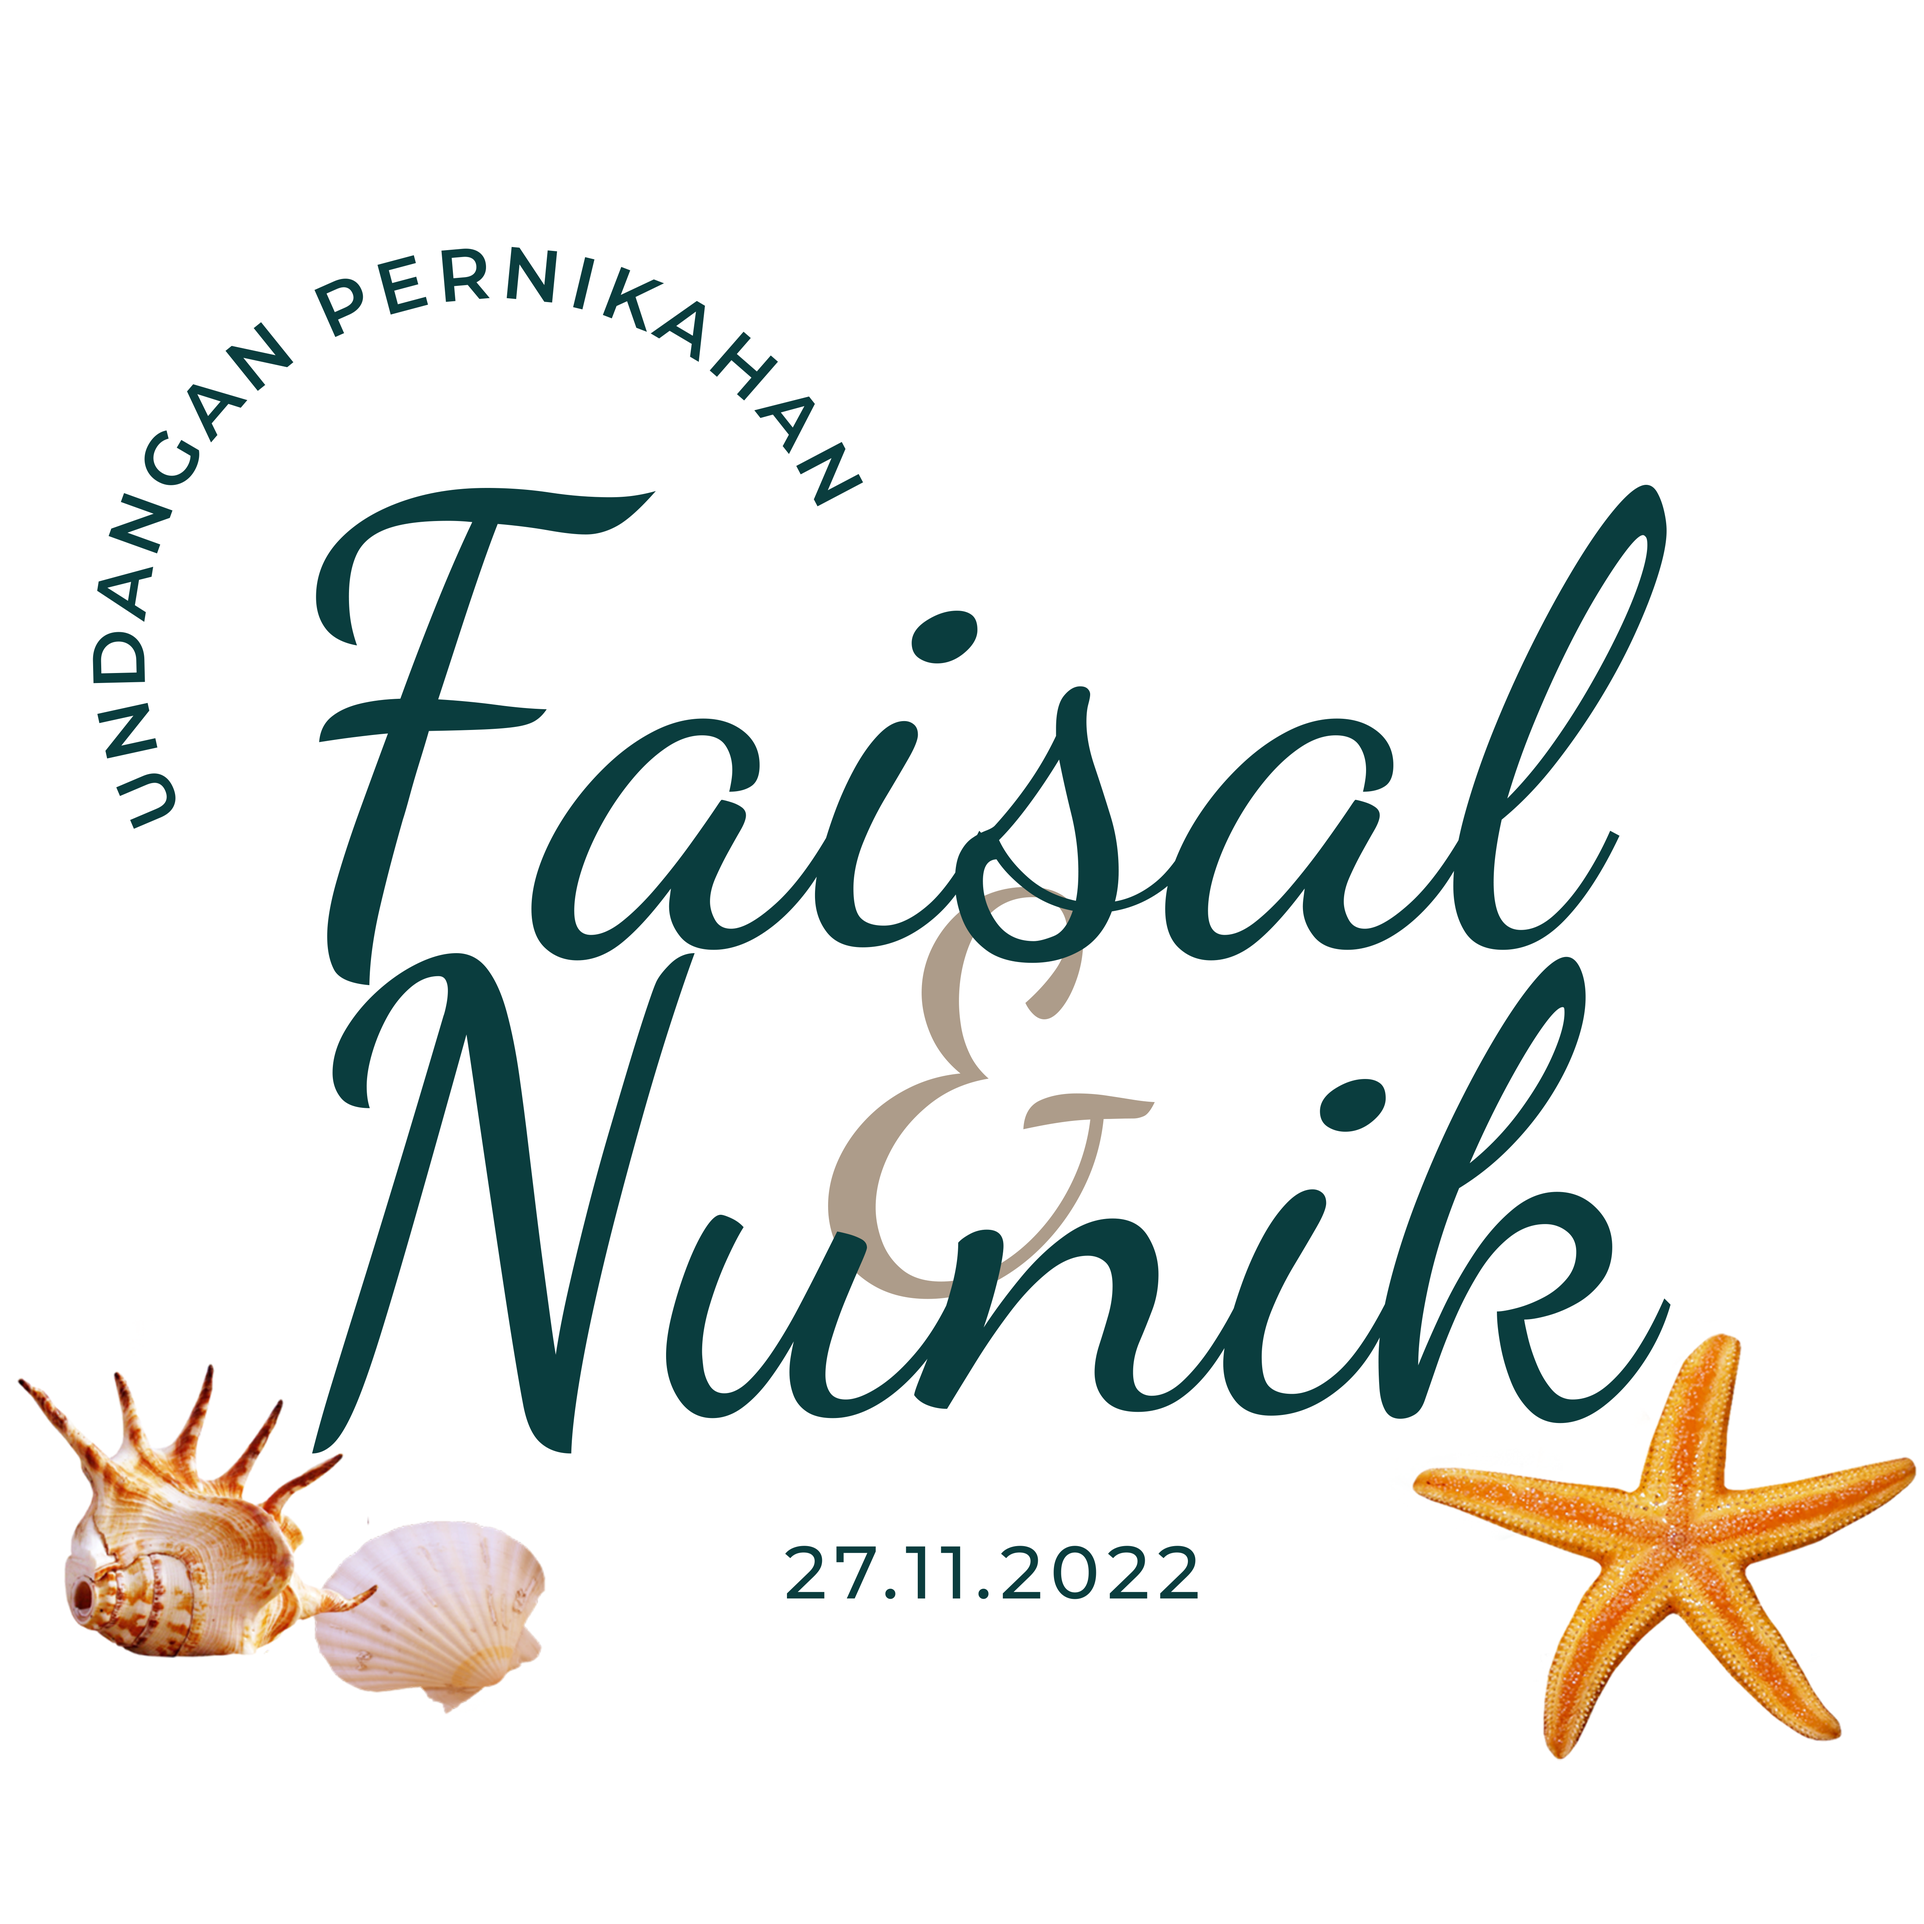
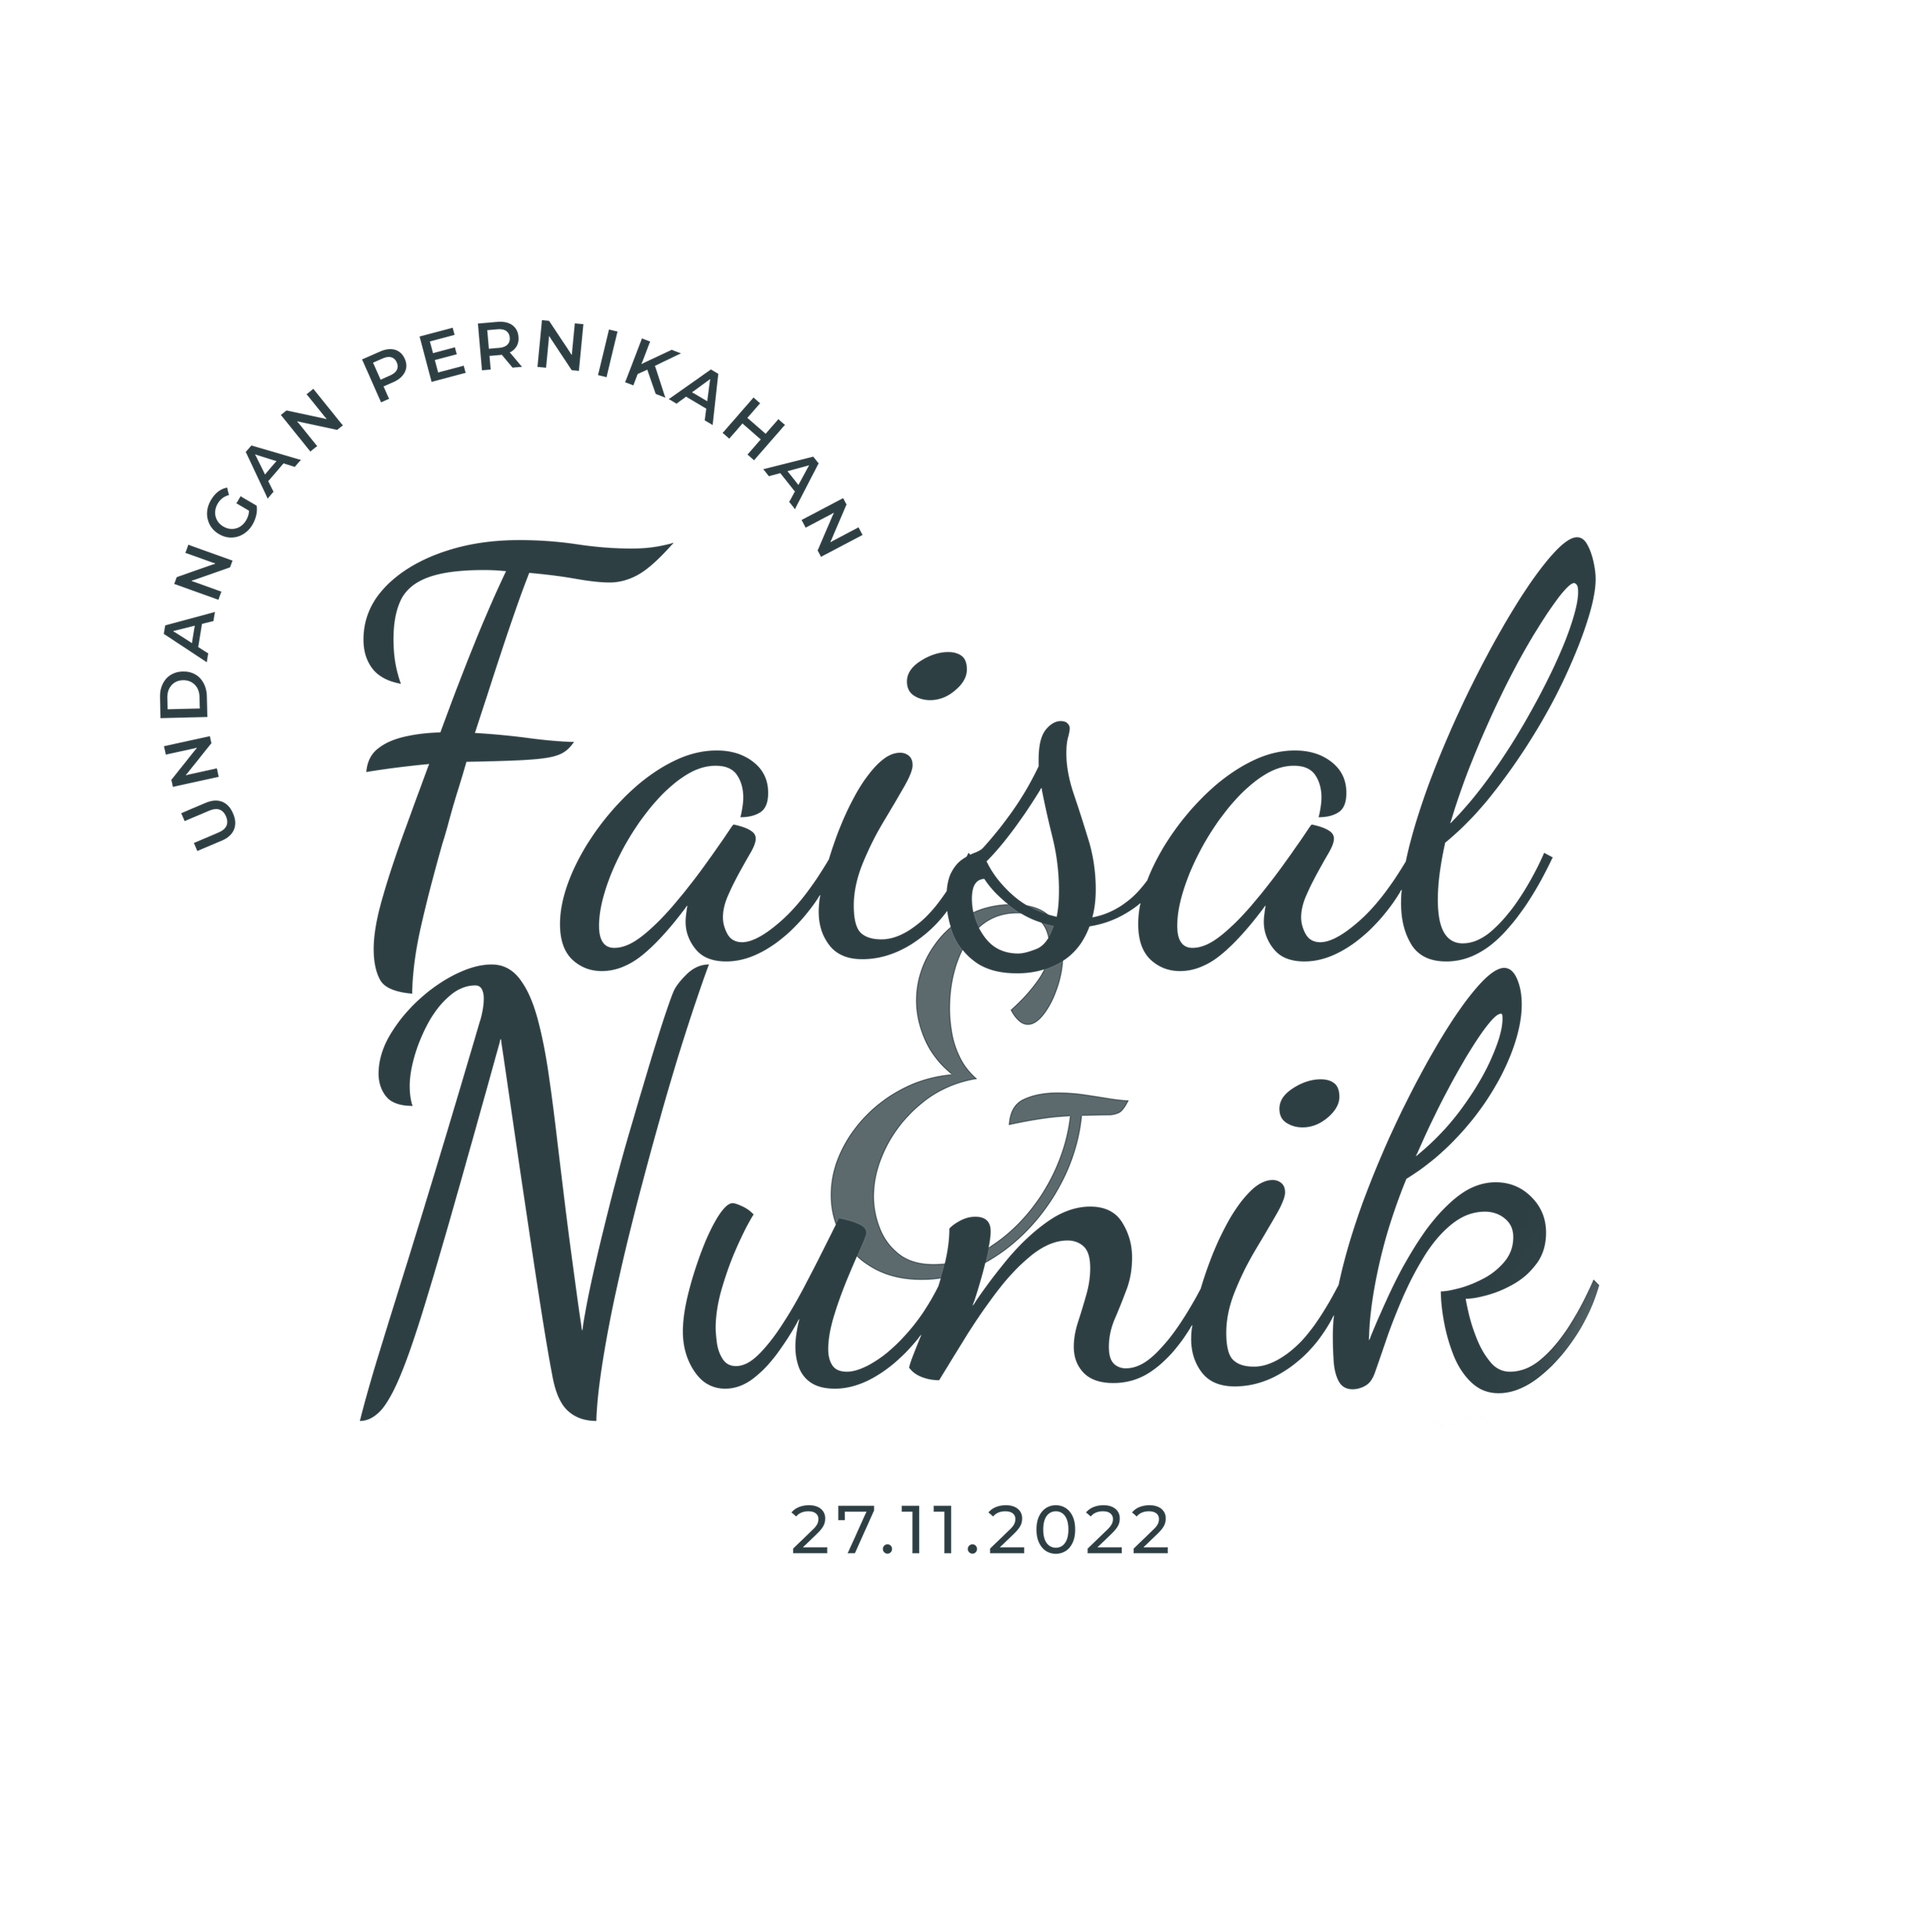
tidy up content

Changed region(s): [[0.0, 0.2496, 0.9984, 0.9048], [0.0312, 0.1248, 0.468, 0.4368], [0.4056, 0.78, 0.624, 0.8424]]

diff --git a/index.php b/index.php
@@ -138,11 +138,11 @@
                     <img src="img/Intro.png" style="width: 356px; height:350px; margin-top:70px;">
                 </div>
                 <br>
-                <p class="guest" style="font-size:20px; color:#fff!important; margin-top:-1.2rem; font-weight:400;">Kepada YTH.<br>
+                <p class="guest" style="font-size:20px; color:#304146!important; margin-top:-1.2rem; font-weight:400;">Kepada YTH.<br>
                     <?php if (urldecode($baso)) { ?>
-                        <strong class="yth" style="font-size:20px; color:#fff!important; font-weight:700;"><?= urldecode($baso) ?></strong>,
+                        <strong class="yth" style="font-size:20px; color:#304146!important; font-weight:700;"><?= urldecode($baso) ?></strong>,
                     <?php } else { ?>
-                        <strong class="yth" style="font-size:20px; color:#fff!important; font-weight:700;">guest</strong>,
+                        <strong class="yth" style="font-size:20px; color:#304146!important; font-weight:700;">guest</strong>,
                     <?php } ?>
                 </p>
                 <button type=button class="btn btn-md btn-secondary open_invitation px-5" style="z-index:100;background-color: #0a3d3e!important; color:#fff; border:none;">Open Invitation</button>
@@ -151,7 +151,7 @@
     </section>
 
 
-    <section style="background:url('img/Background_Intro.png') center center no-repeat;" class="curved page-holder bg-cover" id="particles-js">
+    <section style="background:url('img/Background_intro.png') center center no-repeat;" class="curved page-holder bg-cover" id="particles-js">
         <div class="container">
             <header class="text-center text-white vh-100 d-flex flex-column align-items-center justify-content-center mb-5">
                 <!-- <img src="img/Intro.png"  style="width: 256px; height:250px; margin-top:5px;"><br> -->
@@ -183,10 +183,10 @@
         </svg>
     </section>
 
-    <section class="couple" id="couple" style="background:url('img/Backkground.png') center center no-repeat;background-size: cover; margin-top:-12rem;">
+    <section class="couple" id="couple" style="background:url('img/Background Isi.png') center center no-repeat;background-size: cover; margin-top:-12rem;">
         <img class="mb-3" src="img/Pembatas.png" width="250">
         <div class="d-flex w-100 align-items-center justify-content-center mb-3" data-aos="flip-up" data-aos-delay="200">
-            <h2 class="caption" style="font-family:dancing; font-size:1.9rem; letter-spacing: -1px;"> Nunik &amp; Faisal</h2>
+            <h2 class="caption" style="margin-top:-32px;font-family:dancing; font-size:1.9rem; letter-spacing: -1px;"> Nunik &amp; Faisal</h2>
         </div>
 
         <div class="container" data-aos="fade-up">
@@ -202,7 +202,7 @@
                             <div class="couple-rings">
                                 <img src="img/Mempelai Pria.png" alt="Faisal Fathurrahman, S.I.P. Photo" class="img-fluid" style="width:50%!important;">
                             </div>
-                            <h2 style="font-size:1.2rem; font-family:dancing; letter-spacing: -1px;" class="my-3">Faisal Fathurrahman, S.I.P.</h2>
+                            <h2 style="font-size:1.7rem; font-family:dancing; letter-spacing: -1px;" class="my-3">Faisal Fathurrahman, S.I.P.</h2>
                             <p>
                                 Putra dari Pasangan <br>
                                 <b>Putra Bapak Sayuti dan Ibu Suhaeniah</b>
@@ -216,7 +216,7 @@
                             <div class="couple-rings">
                                 <img src="img/Mempelai Wanita.png" alt="Nunik Kurniawati, S.Pd. Photo"class="img-fluid" style="width:50%!important;">
                             </div>
-                            <h2 style="font-size:1.2rem; font-family:dancing; letter-spacing: -1px;" class="my-3">Nunik Kurniawati, S.Pd.</h2>
+                            <h2 style="font-size:1.7rem; font-family:dancing; letter-spacing: -1px;" class="my-3">Nunik Kurniawati, S.Pd.</h2>
                             <p>
                                 Putri dari Pasangan <br>
                                 <b>Putri Bapak H. Jamanik dan Ibu Nurul Aini</b>
@@ -233,16 +233,16 @@
         </div>
     </section>
 
-    <section class="location" id="event" style="background:url('img/Background_Isi.png') center center no-repeat;background-size: cover; margin-top:-6rem!important;">
+    <section class="location" id="event" style="background:url('img/Background Isi.png') center center no-repeat;background-size: cover; margin-top:-6rem!important;">
         <div class="container" style="margin-top:-75px;">
             <div class="d-flex w-100 align-items-center justify-content-center mb-3" data-aos="flip-up" data-aos-delay="200">
-                <h2 class="caption" style="font-family:monserta; letter-spacing: -1px; color:#fff!important; font-size:1.9rem;">Wedding Schedule</h2>
+                <h2 class="caption" style="font-family:dancing; font-weight:700; letter-spacing: -1px; color:#fff!important; font-size:1.9rem;">Wedding Schedule</h2>
             </div>
             <div class="row row-eq-height justify-content-center">
                 <div class="col-lg-4 mb-3 d-flex justify-content-center" data-aos="fade-up" data-aos-delay="300">
                     <div class="card information h-100">
                         <div class="card-body">
-                            <h3 class="mt-4" style="font-family:dancing; font-size:1.5rem; font-weight:100; letter-spacing: -1px;">Akad Nikah
+                            <h3 class="mt-4" style="font-family:dancing; font-size:2rem; font-weight:100; letter-spacing: -1px;">Akad Nikah
                                 <hr>
                             </h3>
                             <div class="row mt-4">
@@ -257,9 +257,9 @@
                                 </div>
                             </div>
                             <p class="desc-location mt-3">
-                                Akad: Ahad, 27 November 2022 Pukul. 09.00-11.00 WIB<br>
-                                Resepsi: Ahad, 27 November 2022 Pukul. 13.00-14.00.<br>
-                                Akad Nikah dan resepsi: Jl. Energi, Ling Karang Buyuk, Ampenan Selatan, Mataram
+                                <b>Akad:</b> Ahad, 27 November 2022 Pukul. 09.00-11.00 WIB<br><br>
+                                <b>Resepsi:</b> Ahad, 27 November 2022 Pukul. 13.00-14.00.<br><br>
+                                <b>Akad Nikah dan resepsi:</b> Jl. Energi, Ling Karang Buyuk, Ampenan Selatan, Mataram
                             </p>
                         </div>
                     </div>
@@ -290,21 +290,21 @@
         </svg>
     </section>
 
-    <section class="gallery mask_top-2 mask_bottom" id="gallery" style="margin-top:-100px;">
+    <section class="gallery mask_top-2 mask_bottom" id="gallery" style="background:url('img/Background Isi.png') center center no-repeat;background-size: cover;margin-top:-70px;">
         <div class="container">
-            <div class="d-flex w-100 align-items-center flex-column justify-content-center mb-2">
+            <div class="d-flex w-100 align-items-center flex-column justify-content-center ">
                 <img class="mb-3" src="img/Pembatas.png" width="250">
-                <h2 class="caption" style="font-family:kriwil; font-size:1.9rem; letter-spacing: -1px; position:relative; top:-50px!important; margin-bottom:20px;">12.11.12 Khitbah</h2>
+                <h2 class="caption" style="font-family:dancing; font-size:2rem; letter-spacing: -1px; position:relative; top:-50px!important; margin-bottom:20px;">12.11.12 Khitbah</h2>
             </div>
 
-            <div class="col-lg-12 mt-5">
+            <div class="col-lg-12 mt-3">
                 <div class="row">
                     <div class="swiper mySwiper">
                         <div class="swiper-wrapper">
-                            <div class="swiper-slide"><img src="img/galleri/1.png" alt="" width="270"></div>
-                            <div class="swiper-slide"><img src="img/galleri/2.png" alt="" width="270"></div>
-                            <div class="swiper-slide"><img src="img/galleri/3.png" alt="" width="270"></div>
-                            <div class="swiper-slide"><img src="img/galleri/4.png" alt="" width="270"></div>
+                            <div class="swiper-slide"><img src="img/galleri/1.png" alt="" width="320"></div>
+                            <div class="swiper-slide"><img src="img/galleri/2.png" alt="" width="320"></div>
+                            <div class="swiper-slide"><img src="img/galleri/3.png" alt="" width="320"></div>
+                            <div class="swiper-slide"><img src="img/galleri/4.png" alt="" width="320"></div>
                         </div>
                         <div class="swiper-pagination"></div>
                     </div>
@@ -313,11 +313,11 @@
         </div>
     </section>
 
-    <section id="countdown" class="pb-0" style="background:url('img/Backkground.png') center center no-repeat;background-size: cover; margin-top:-15rem;">
+    <section id="countdown" class="pb-0" style="background:url('img/Background Isi.png') center center no-repeat;background-size: cover; margin-top:-13rem;">
         <div class="container text-center mt-5">
             <img class="mb-3" src="img/Pembatas.png" width="250">
-            <div class="d-flex w-100 align-items-center justify-content-center mb-5" data-aos="flip-up" data-aos-delay="200">
-                <h2 class="caption" style="font-family:dancing; font-size:1.9rem; letter-spacing: -1px;">Countdown</h2>
+            <div class="d-flex w-100 align-items-center justify-content-center mb-5" style="margin-top:-27px;" data-aos="flip-up" data-aos-delay="200">
+                <h2 class="caption" style="font-family:dancing; font-size:2rem; letter-spacing: -1px;">Countdown</h2>
             </div>
             <div class="col-lg-8 mt-5 mx-auto">
                 <div class="row timer-wrapper">
@@ -370,11 +370,11 @@
         <a target="_blank" href="https://maps.app.goo.gl/SPCmiLChAzjvGAJu6" class="btn btn-secondary mt-5 mx-1" data-aos="fade-up" data-aos-delay="500">Open Google Map</a>
     </section>
 
-    <section class="text-center pt-0">
+    <section class="text-center pt-0" style="margin-top:-60px;">
         <div class="container">
             <img class="mb-3" src="img/Pembatas.png" width="250">
             <p class="display-1" style="font-size:40px; font-family:dancing; font-weight:700; font-size:1.9rem; letter-spacing: -1px; margin-top:-5rem;">Live Streaming</p>
-            <img src="img/logo instagram (untuk live streaming).png" alt="" width="80" class="mb-3">
+            <img src="img/logo instagram (untuk live streaming).png" alt="" width="50" class="mb-3">
             <p>
                 <a href="https://www.instagram.com/nunikjamani/" style="color:#0a3d3e">https://www.instagram.com/nunikjamani/</a>
                 <a href="https://www.instagram.com/faesal.fathurrahman12/" style="color:#0a3d3e">https://www.instagram.com/faesal.fathurrahman12/</a>
@@ -437,7 +437,7 @@
                 <h2 style="font-family:dancing; font-size:1.9rem; letter-spacing: -1px; margin-top:-5rem;">Quotes</h2>
             </div>
             <div class="col-md-12 pt-4">
-                <div style="max-width:500px;margin:auto">
+                <div style="max-width:500px;margin:auto; padding:15px; border:3px solid #0a3d3e; border-radius:10px; box-shadow:1px 1px 1px #eee;">
                     <p>"Cinta sejati adalah suatu perkara yang merujuk kepada hakikat batin. Meskipun pada mulanya ia bernisbah kepada kenyataan zahir, namun demikian, kesedaran akan pengenalan cinta sejati hanya akan timbul tampak pada nazar keinsafan diri apabila hakikat batin itu telah dikenali. Sia-sialah berlagak menda'wa diri cinta sejati jika sekiranya cinta itu ditumpukan kepada rupa jasmani belaka." (Syed Muhammad Naquib Al-Attas, RUKM, 7) </p>
                 </div>
             </div>
